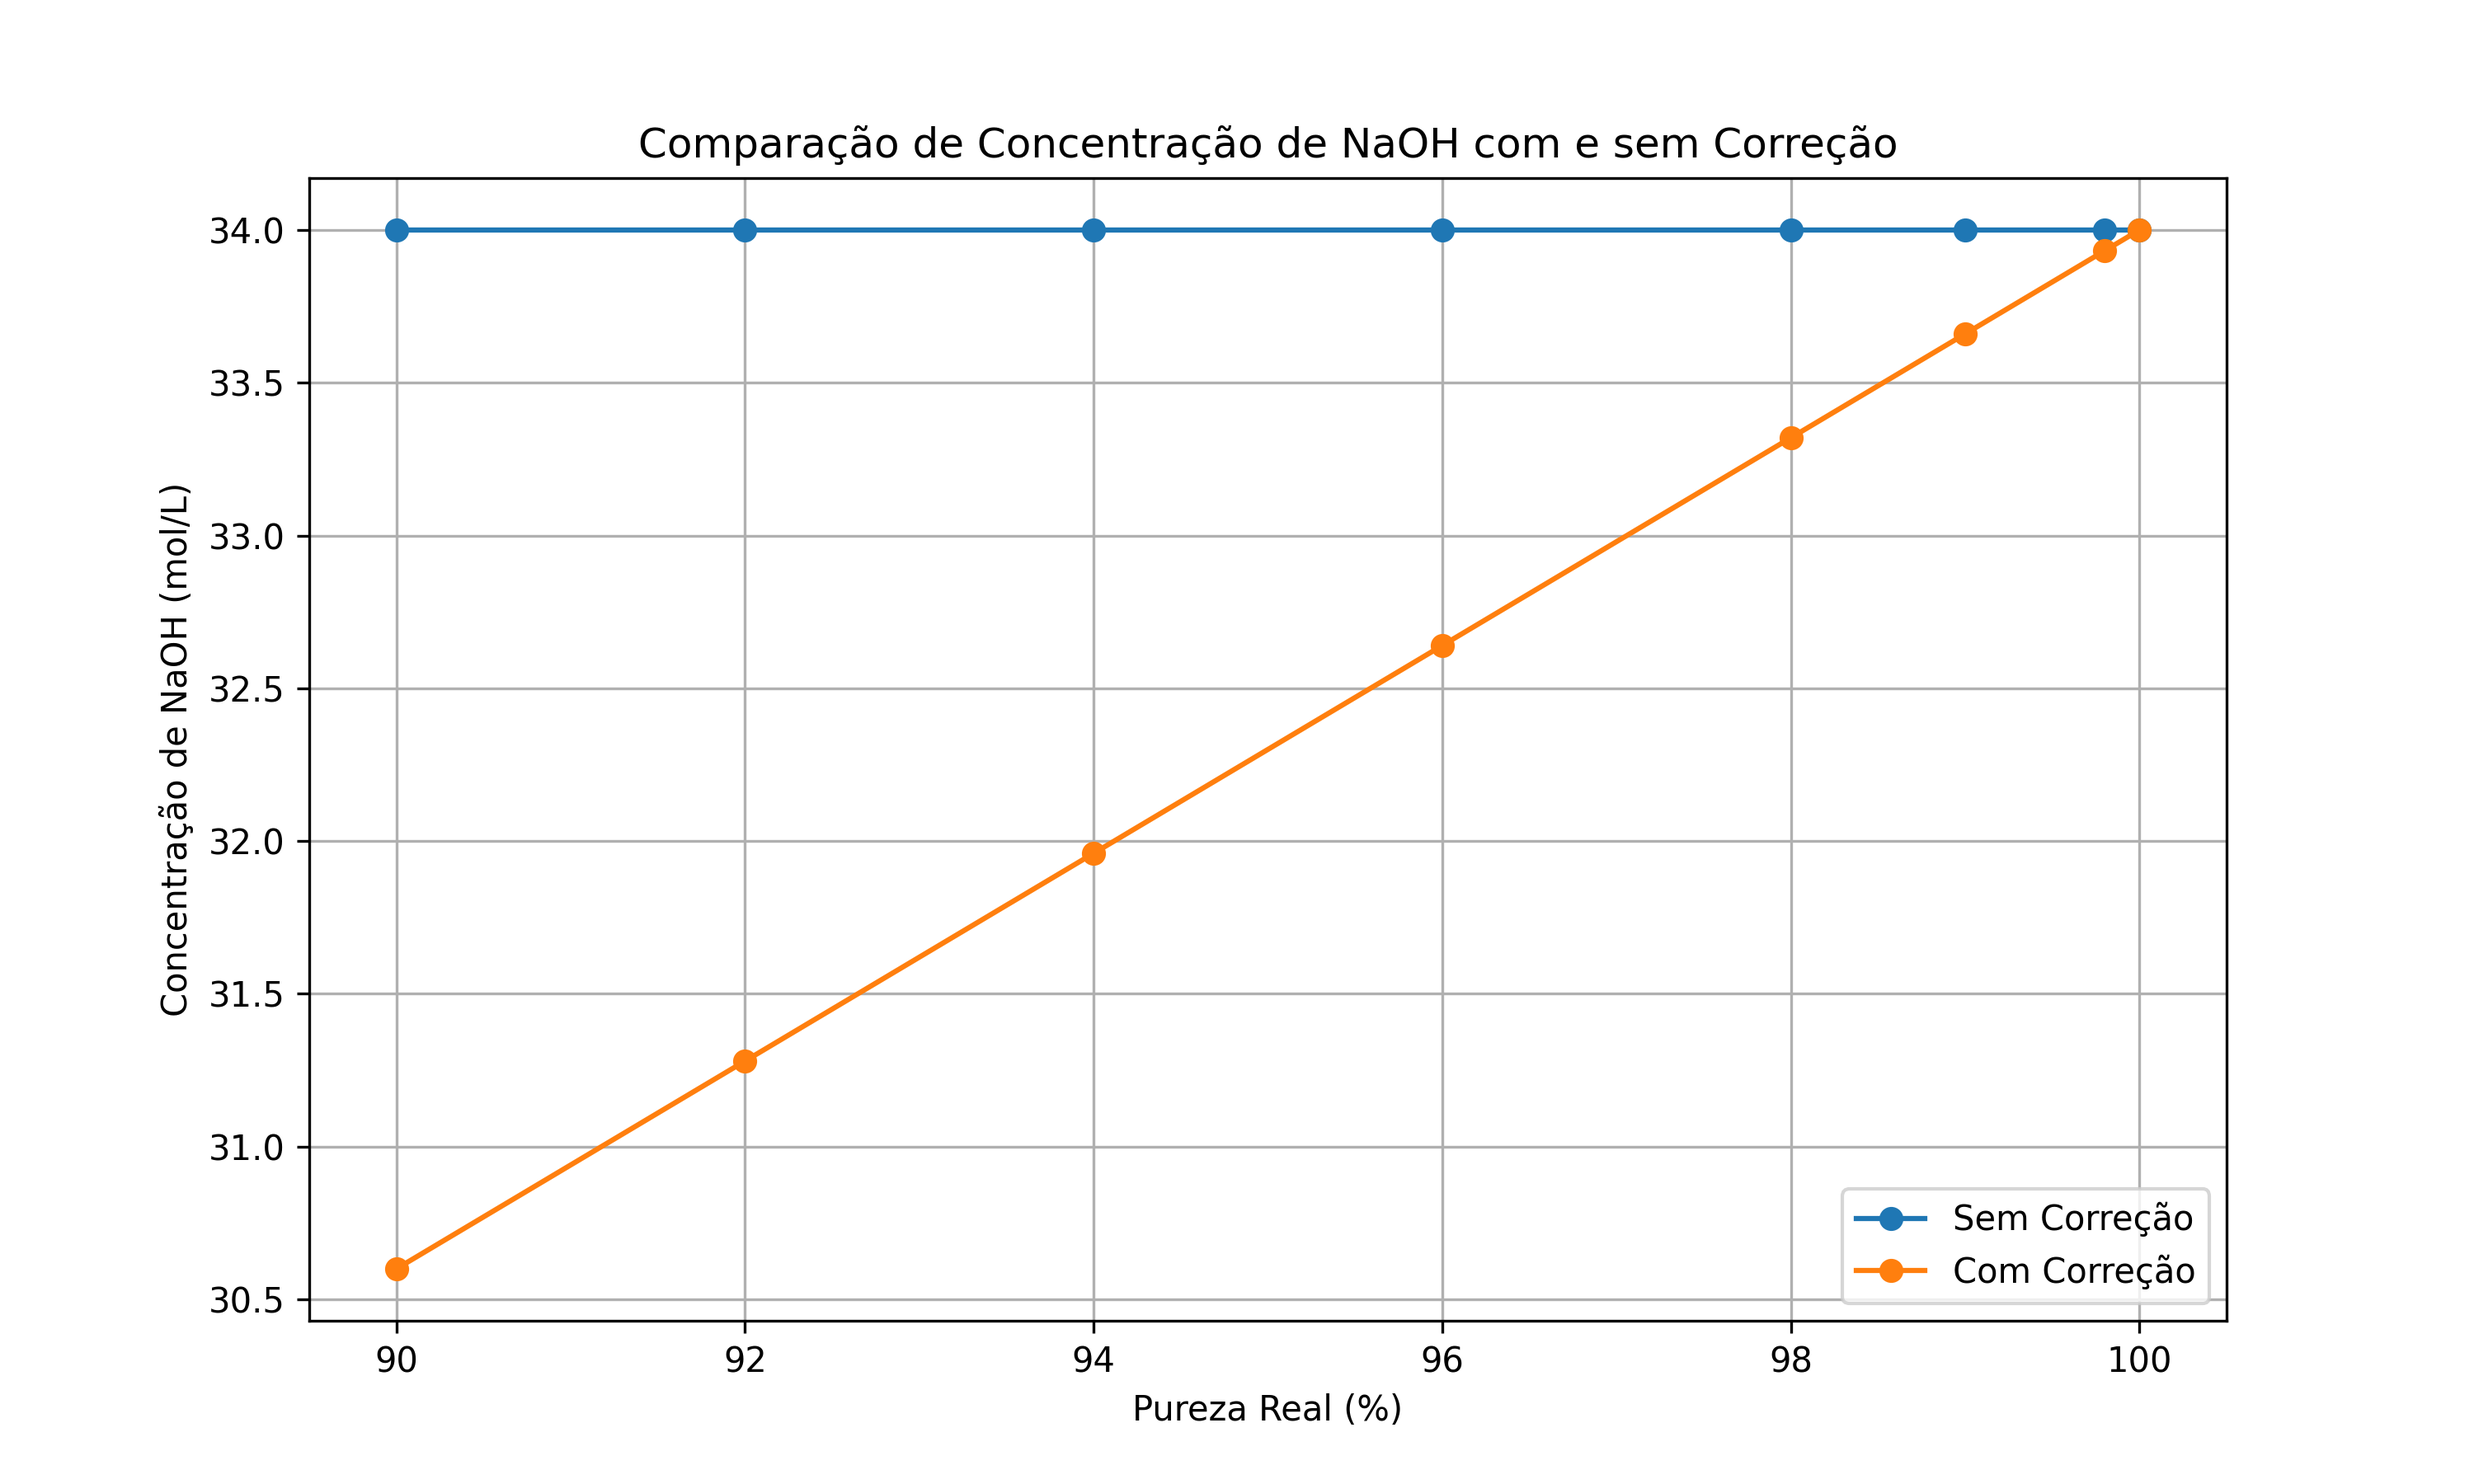
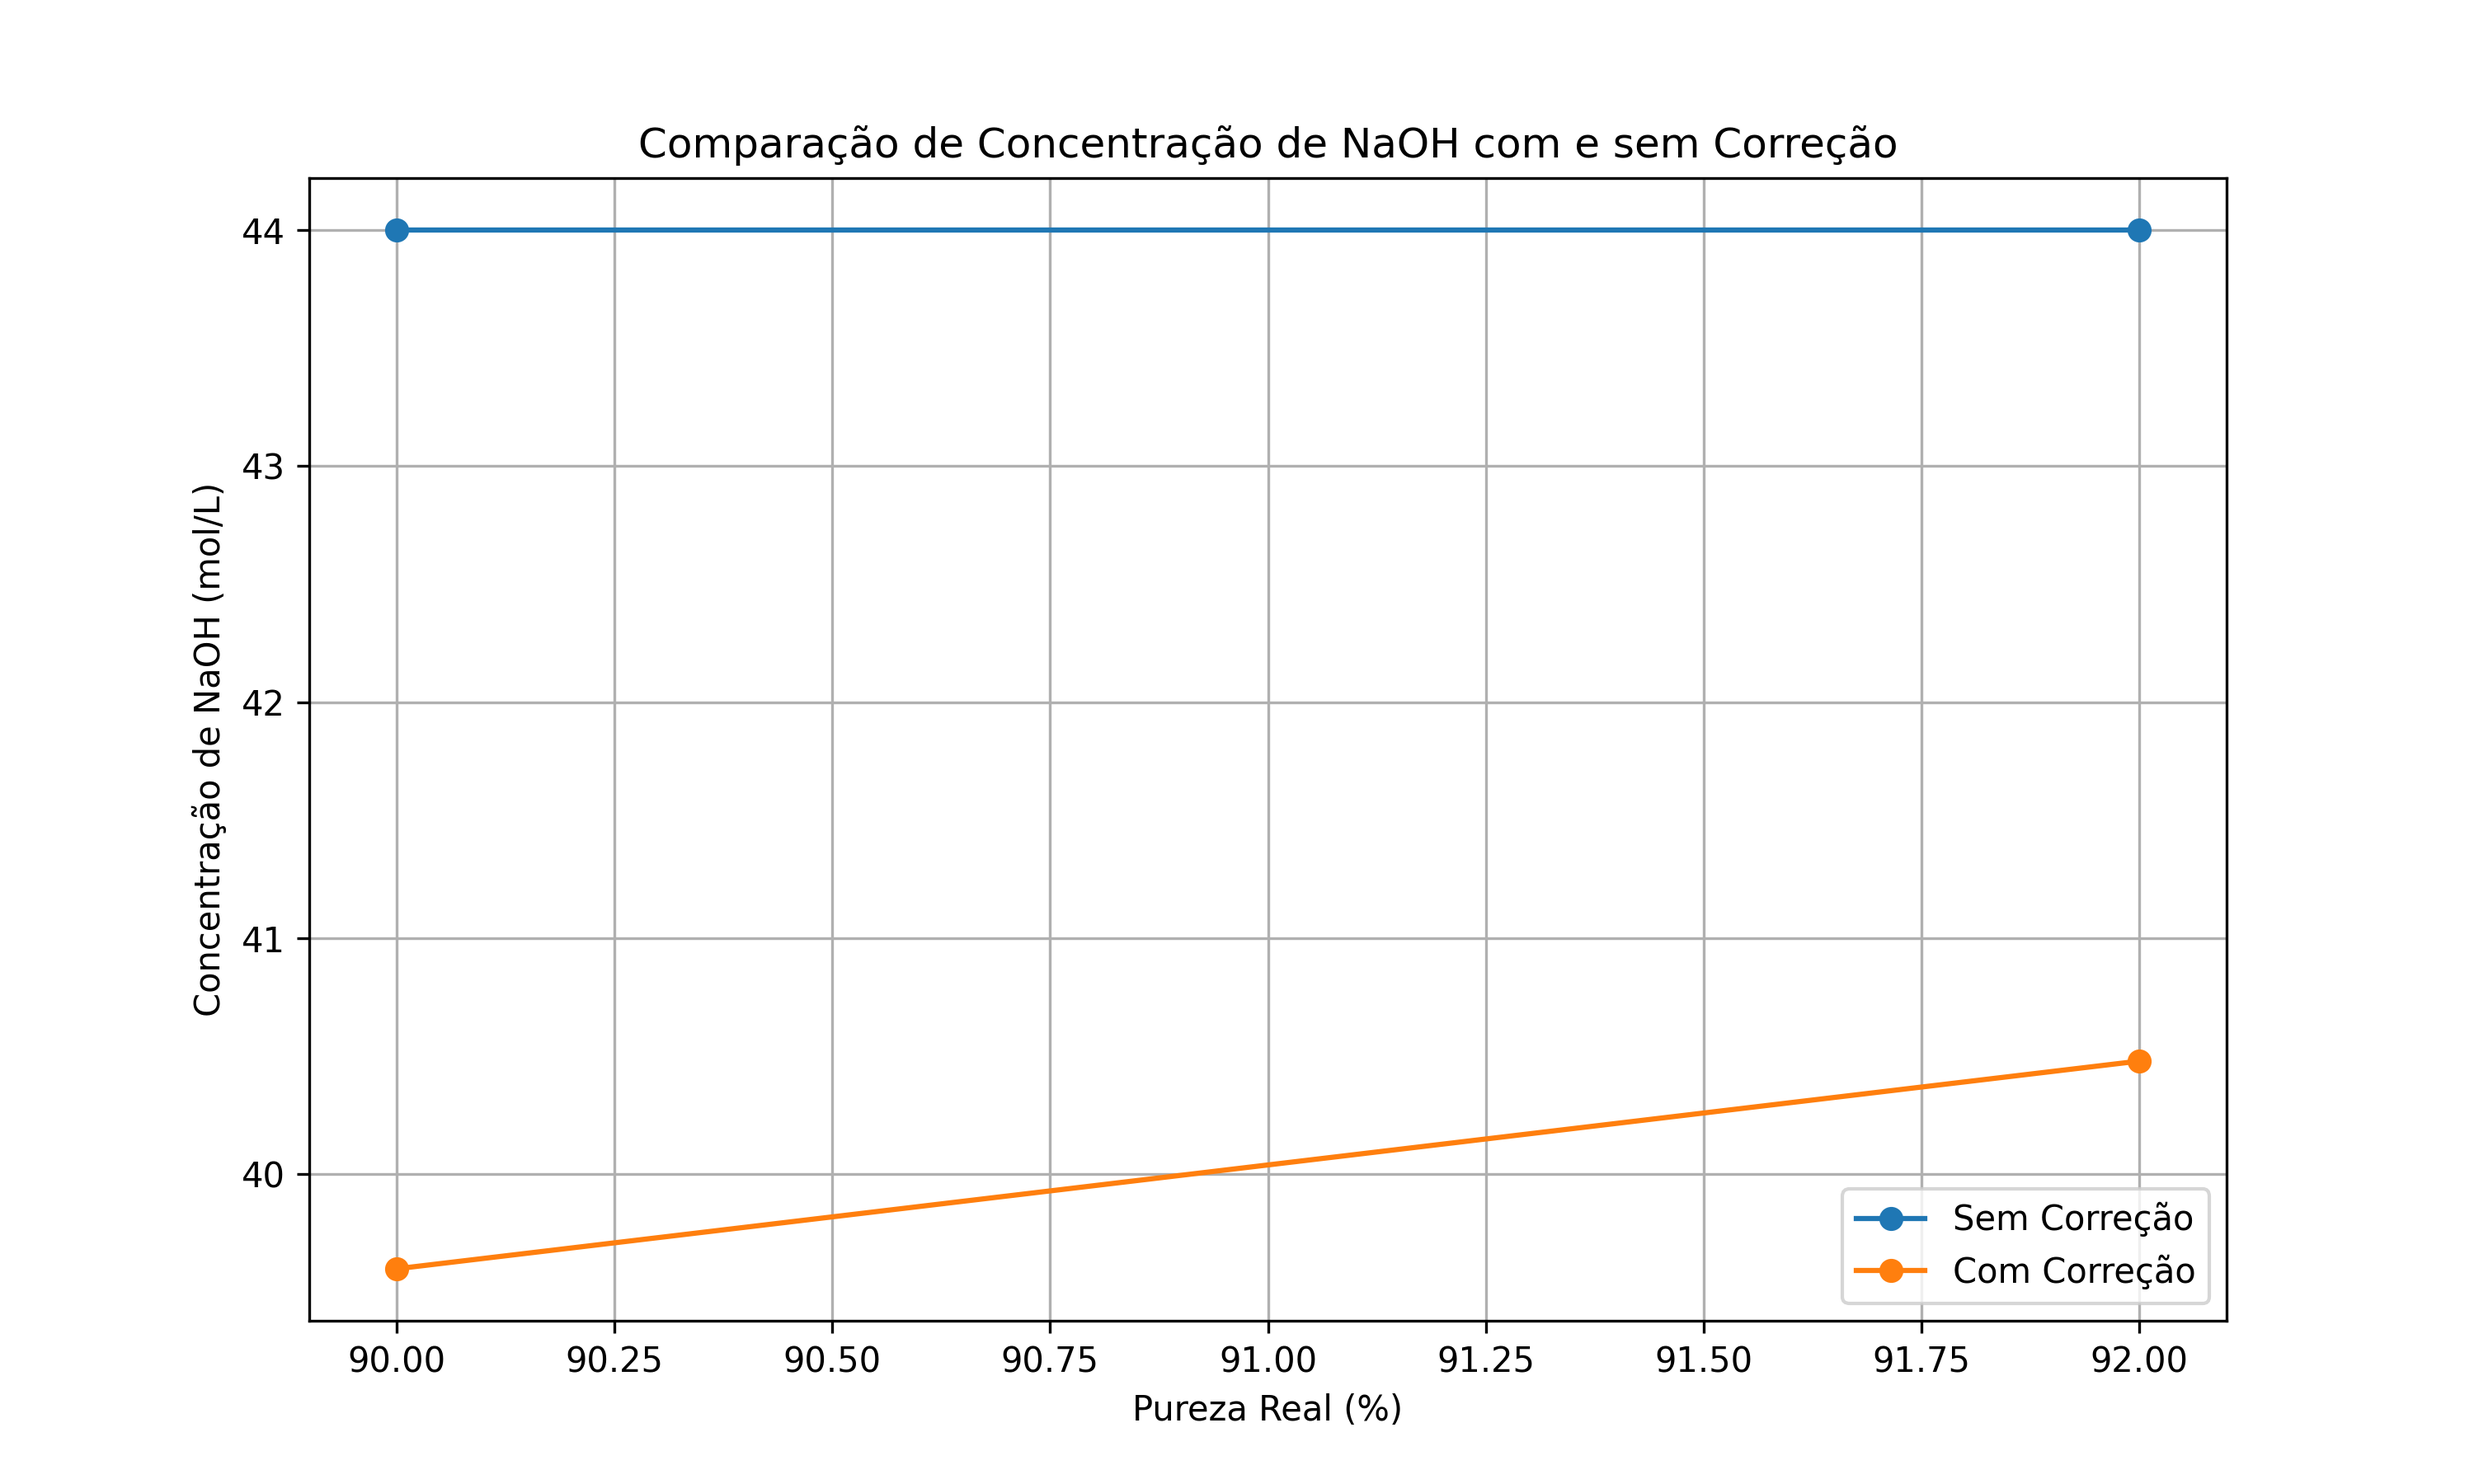
givei
criei html para exibir o gráfico e o código foi modificado, sem muito sucesso

diff --git a/templates/gerar-grafico.html b/templates/gerar-grafico.html
@@ -1,0 +1,24 @@
+{% extends 'base.html' %}
+
+{% block main %}
+<main>
+    <h2>Gerar Gráfico de Concentração</h2>
+    <div>
+        <form action="/grafico" method="POST">
+            <label for="massa_padrao">Massa Padrão (g):</label>
+            <input type="text" name="massa_padrao" required><br>
+
+            <label for="fator_equivalencia">Fator de Equivalência:</label>
+            <input type="text" name="fator_equivalencia" required><br>
+
+            <label for="volume_naoh">Volume de NaOH (L):</label>
+            <input type="text" name="volume_naoh" required><br>
+
+            <label for="pureza_real_values">Valores de Pureza Real (separados por vírgula):</label>
+            <input type="text" name="pureza_real_values" required><br>
+
+            <button type="submit">Gerar Gráfico</button>
+        </form>
+    </div>
+</main>
+{% endblock %}

diff --git a/templates/resultado-grafico.html b/templates/resultado-grafico.html
@@ -1,0 +1,10 @@
+{% extends 'base.html' %}
+
+{% block main %}
+<main>
+    <h2>Gráfico de Concentração de NaOH</h2>
+    <div>
+        <img src="{{ image_path }}" alt="Gráfico de Concentração de NaOH">
+    </div>
+</main>
+{% endblock %}

diff --git a/libs/graficos.py b/libs/graficos.py
@@ -20,8 +20,14 @@ massa_padrao = 0.85
 fator_equivalencia = 1
 volume_naoh = 0.025
 
-# Valores de pureza real para gerar o gráfico
-pureza_real_values = [90, 92, 94, 96, 98, 99, 99.8, 100]
+# Solicitando entrada de valores do usuário
+massa_padrao = float(input("Insira a massa padrão (g): "))
+fator_equivalencia = float(input("Insira o fator de equivalência: "))
+volume_naoh = float(input("Insira o volume de NaOH (L): "))
+
+# Recebendo os valores de pureza real do usuário
+pureza_real_values = input("Insira os valores de pureza real separados por vírgula (ex: 90,92,94,...): ")
+pureza_real_values = [float(valor) for valor in pureza_real_values.split(",")]
 
 # Criando listas para armazenar as concentrações
 concentracao_naoh_sem_correcao = []
@@ -63,5 +69,4 @@ os.makedirs(os.path.dirname(caminho_relativo), exist_ok=True)
 plt.savefig(caminho_relativo, format='png', dpi=300)
 
 # Exibindo o gráfico
-plt.show()
 plt.show()

diff --git a/main.py b/main.py
@@ -147,6 +147,5 @@ def gerar_planilha():
         mimetype='application/vnd.openxmlformats-officedocument.spreadsheetml.sheet'
     )
 
-
 if __name__ == '__main__':
     app.run(debug=True)
